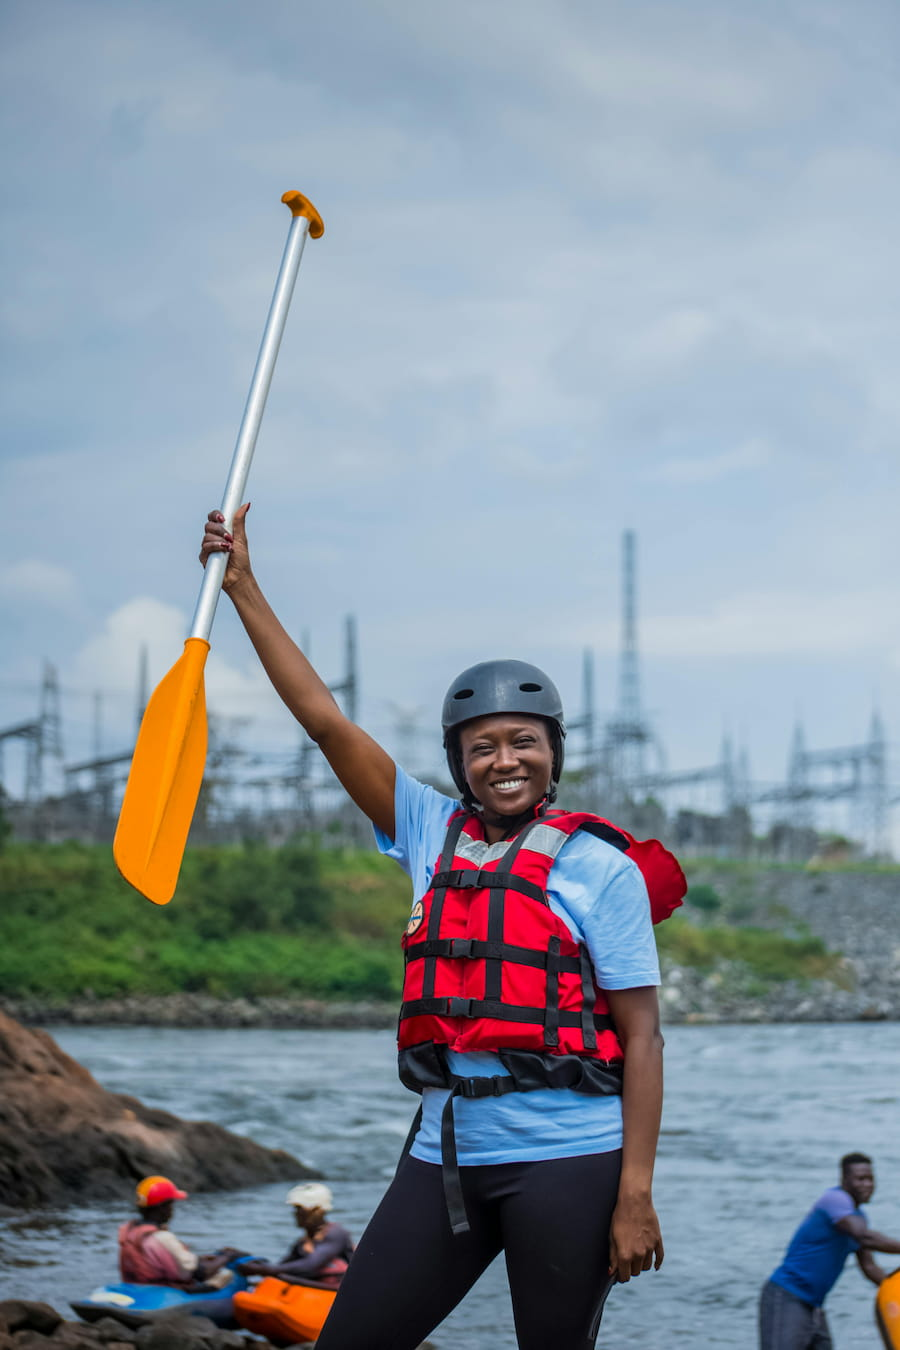
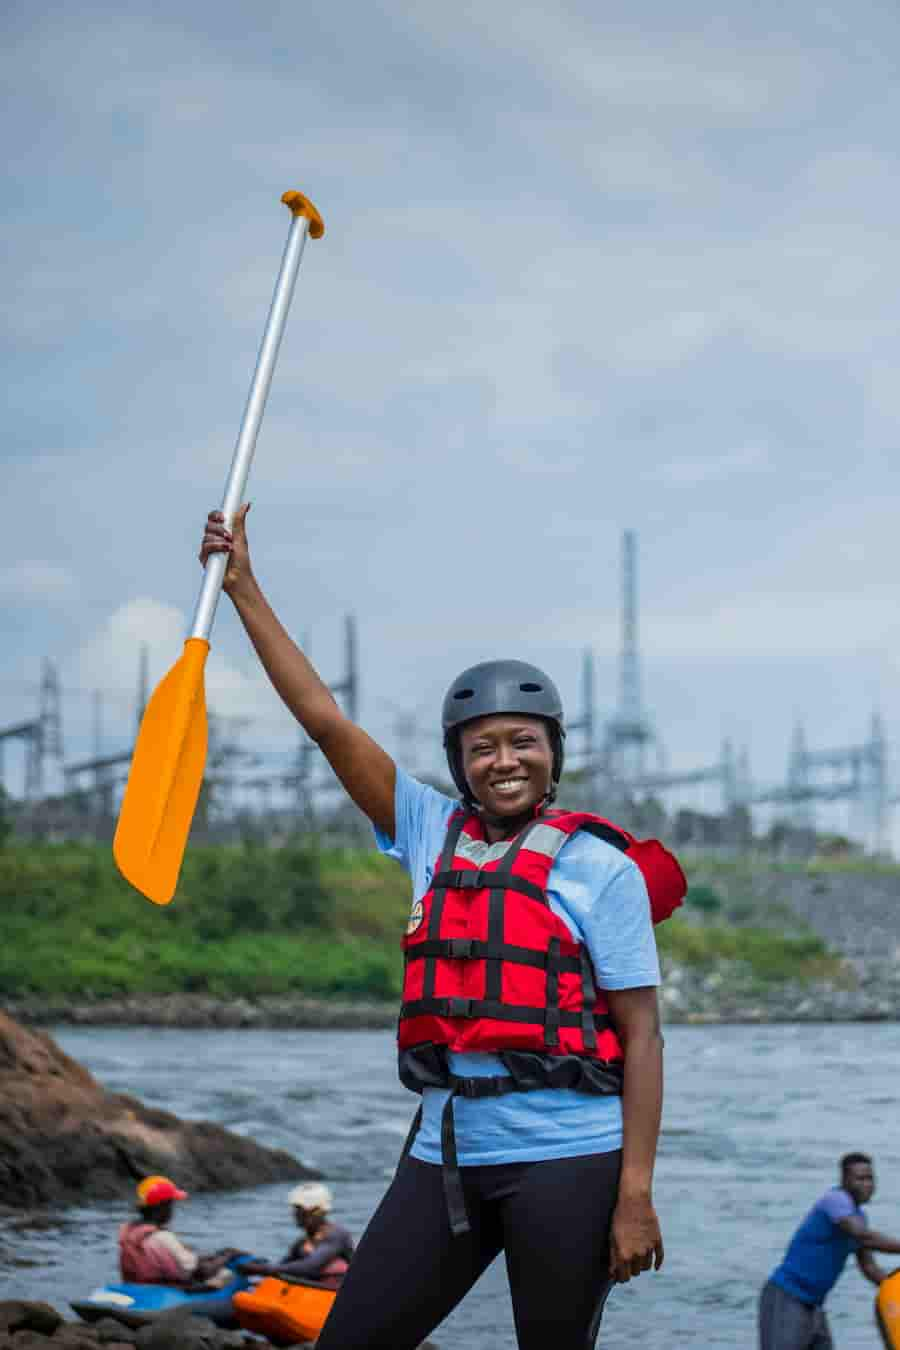
change in h2

diff --git a/wwr/about.html b/wwr/about.html
@@ -38,10 +38,9 @@
             </article>
         </div>
 
-            <h2 class="history1">HISTORY</h2>
+            <div class="history1"><h2>HISTORY</h2></div> 
         
         <section class="row-section">   
-                     
             <div class="text-block">
                 <p>Founded in 2008 by a group of passionate river guides and outdoor enthusiasts, Echo River Adventures began as a small, family-run operation along the wild and scenic stretches of the Echo River. What started with just a couple of rafts and a dream to share the magic of whitewater with others has grown into one of the region's most trusted adventure companies. </p>
             </div>
